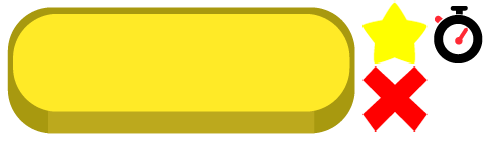
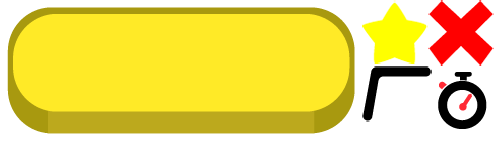
division with "casita" mathTournament

diff --git a/nonrefactored/mathTournament/mathClient/js/scenes/operations.js b/nonrefactored/mathTournament/mathClient/js/scenes/operations.js
@@ -16,7 +16,7 @@ var operations = function(){
 			"moves":"Movimientos extra",
 			"howTo":"¿Cómo jugar?",
 			"ready":"Listos",
-			"reviewingAnswers": "Rvisando Respuestas",
+			"reviewingAnswers": "Revisando Respuestas",
 			"youWin":"Ganaste!",
 			"giveUp":"No te rindas!"
 		}
@@ -75,7 +75,7 @@ var operations = function(){
 	var inputsEnabled
 	var roundCounter
 	var buttonList
-	var equationText
+	var equationGroup
 	var startTimer
 	var timeElapsed
 	var correctButton
@@ -295,24 +295,26 @@ var operations = function(){
 
 	function startRound() {
 		isReady = true;
+		equationGroup.division.alpha = 0
 
 		timeElapsed = 0
 		options = cliente ? cliente.currentOptions : [120, 200, 0]
 
 		clientData = (cliente)&&(cliente.currentData) ? cliente.currentData : {
-			operand1 : 0,
-			operand2 : 0,
-			opedator : "+",
-			correctAnswer : 0,
+			operand1 : 20,
+			operand2 : 2,
+			opedator : "/",
+			result:"?",
+			correctAnswer : 10,
 			type :"yei"
 		}
 
 		addButtons()
-		equationText.text = clientData.operand1 + clientData.opedator + clientData.operand2 + "=" + clientData.result
-		equationText.alpha = 0
-		equationText.scale.x = 0.4; equationText.scale.y = 0.4
-		game.add.tween(equationText.scale).to({x:1, y:1}, 500, Phaser.Easing.Back.Out, true)
-		game.add.tween(equationText).to({alpha: 1}, 500, Phaser.Easing.Cubic.Out, true)
+		generateEquation()
+		equationGroup.alpha = 0
+		equationGroup.scale.x = 0.4; equationGroup.scale.y = 0.4
+		game.add.tween(equationGroup.scale).to({x:1, y:1}, 500, Phaser.Easing.Back.Out, true)
+		game.add.tween(equationGroup).to({alpha: 1}, 500, Phaser.Easing.Cubic.Out, true)
 
 		game.add.tween(differenceTimeText).to({alpha:0}, 200, Phaser.Easing.Cubic.Out, true)
 		startTimer = true
@@ -330,8 +332,8 @@ var operations = function(){
 			game.add.tween(button.scale).to({x:0.4, y:0.4}, 300, Phaser.Easing.Cubic.Out, true)
 		}
 
-		game.add.tween(equationText).to({alpha:0}, 300, Phaser.Easing.Cubic.Out, true)
-		game.add.tween(equationText.scale).to({x:0.4, y:0.4}, 300, Phaser.Easing.Cubic.Out, true)
+		game.add.tween(equationGroup).to({alpha:0}, 300, Phaser.Easing.Cubic.Out, true)
+		game.add.tween(equationGroup.scale).to({x:0.4, y:0.4}, 300, Phaser.Easing.Cubic.Out, true)
 
 		game.add.tween(differenceTimeText).to({alpha:0}, 300, Phaser.Easing.Cubic.Out, true)
 		game.add.tween(differenceTimeText.scale).to({x:0.4, y:0.4}, 300, Phaser.Easing.Cubic.Out, true)
@@ -341,6 +343,16 @@ var operations = function(){
 			game.add.tween(timerText).to({alpha:1}, 200, Phaser.Easing.Cubic.In, true)
 			game.add.tween(differenceTimeText.scale).to({x:1.2, y:1.2}, 300, Phaser.Easing.Cubic.Out, true).yoyo(true)
 		})
+	}
+
+	function generateEquation(){
+		if(clientData.opedator === "/"){
+			equationGroup.division.alpha = 1
+			equationGroup.equationText.text = clientData.operand2 + "  " + clientData.operand1 + "=" + clientData.result
+		}else{
+			equationGroup.equationText.text = clientData.operand1 + clientData.opedator + clientData.operand2 + "=" + clientData.result
+		}
+
 	}
 	
 	function checkAnswer(event) {
@@ -361,15 +373,15 @@ var operations = function(){
 
 		}
 		console.log(missingOperand)
-		equationText.text = clientData.operand1 + clientData.opedator + clientData.operand2 + "=" + clientData.result
-		game.add.tween(equationText.scale).to({x:1.2, y:1.2}, 200, Phaser.Easing.Cubic.Out, true).yoyo(true)
+		generateEquation()
+		game.add.tween(equationGroup.scale).to({x:1.2, y:1.2}, 200, Phaser.Easing.Cubic.Out, true).yoyo(true)
 
 		if(correctButton.value !== buttonSelected.value){
-			// tweenTint(buttonSelected.img, 0xffffff, 0x00f414, 400)
-			tweenTint(buttonSelected.img, 0xffffff, 0xbc0a00, 200)
+			// tweenTint(buttonSelected.img, 0xffffff, 0xbc0a00, 200)
+			buttonSelected.img.tint = 0xbc0a00
 		}
-		// tweenTint(correctButton.img, 0xffffff, 0x64FF57, 400)
-		tweenTint(correctButton.img, 0xffffff, 0x00f414, 200)
+		correctButton.img.tint = 0x00f414
+		// tweenTint(correctButton.img, 0xffffff, 0x00f414, 200)
 
 		console.log(event.timeDifference)
 		if(event.timeDifference){
@@ -511,6 +523,7 @@ var operations = function(){
 			}else if(!isReady){
 				if(timeElapsed > 500){
 					timeElapsed = 0
+					var equationText = equationGroup.equationText
 					switch (equationText.text){
 						case readyString:
 							equationText.text = readyString+"."
@@ -548,11 +561,23 @@ var operations = function(){
 			playerInfo.anchor.setTo(0.5, 0.5)
 			sceneGroup.add(playerInfo)
 
+			equationGroup = game.add.group()
+			equationGroup.x = game.world.centerX
+			equationGroup.y = 150
+			sceneGroup.add(equationGroup)
+
 			readyString = localization.getString(localizationData, "ready")
-			var fontStyle2 = {font: "72px VAGRounded", fontWeight: "bold", fill: "#ffffff", align: "center"}
-			equationText = game.add.text(game.world.centerX,150,readyString, fontStyle2)
+			var fontStyle2 = {font: "72px VAGRounded", fontWeight: "bold", fill: "#ffffff", align: "center", wordWrap: true, wordWrapWidth: 300}
+			var equationText = game.add.text(0,0,readyString, fontStyle2)
 			equationText.anchor.setTo(0.5, 0.5)
-			sceneGroup.add(equationText)
+			equationGroup.add(equationText)
+			equationGroup.equationText = equationText
+
+			var division = equationGroup.create(-20,-15, "atlas.operations", "sign")
+			division.anchor.setTo(0.5, 0.5)
+			division.scale.setTo(1.5, 1.5)
+			division.alpha = 0
+			equationGroup.division = division
 
 			var fontStyle3 = {font: "52px Arial", fontWeight: "bold", fill: "#ffffff", align: "center"}
 			timerText = game.add.text(game.world.centerX - 30,250,"0:00", fontStyle3)
@@ -608,7 +633,7 @@ var operations = function(){
 
 			var stringWait = localization.getString(localizationData, "reviewingAnswers")
 			// var fontStyle2 = {font: "72px VAGRounded", fontWeight: "bold", fill: "#ffffff", align: "center"}
-			var waitText = game.add.text(0, -100, stringWait, fontStyle2)
+			var waitText = game.add.text(0, -140, stringWait, fontStyle2)
 			waitText.anchor.setTo(0.5, 0.5)
 			waitingGroup.add(waitText)
 			waitingGroup.alpha = 0

diff --git a/nonrefactored/mathTournament/mathServer/js/scenes/battle.js b/nonrefactored/mathTournament/mathServer/js/scenes/battle.js
@@ -125,6 +125,7 @@ var battle = function(){
 	var hudGroup
 	var frontGroup
 	var answersGroup
+	var equationGroup
 
     function loadSounds(){
         sound.decode(assets.sounds)
@@ -368,8 +369,18 @@ var battle = function(){
     }
 
     function hideQuestion(){
-        game.add.tween(equation).to({alpha:0}, 800, Phaser.Easing.Cubic.Out, true)
+        game.add.tween(equationGroup).to({alpha:0}, 800, Phaser.Easing.Cubic.Out, true)
     }
+
+	function generateEquation(data){
+		if(data.opedator === "/"){
+			equationGroup.division.alpha = 1
+			equationGroup.equation.text = data.operand2 + "  " + data.operand1 + "=" + data.result
+		}else{
+			equationGroup.equation.text = data.operand1 + data.opedator + data.operand2 + "=" + data.result
+		}
+
+	}
 
     function checkAnswer(event) {
 		// game.add.tween(answersGroup).to({y:game.world.height}, 500, Phaser.Easing.Cubic.Out, true)
@@ -387,9 +398,9 @@ var battle = function(){
 				break
 
 		}
-		equation.text = data.operand1 + data.opedator + data.operand2 + "=" + data.result
+		generateEquation(data)
 
-    	game.add.tween(equation.scale).to({x:1.2, y:1.2}, 200, Phaser.Easing.Cubic.Out, true).yoyo(true)
+    	game.add.tween(equationGroup.scale).to({x:1.2, y:1.2}, 200, Phaser.Easing.Cubic.Out, true).yoyo(true)
 		var playerWin = null, playerLose = null
     	if(event.numPlayer === 1){
 			playerWin = player1
@@ -755,7 +766,7 @@ var battle = function(){
 			server.generateQuestion()
 		}else{
 			game.time.events.add(1000, function () {
-				generateQuestion({operand1:100, opedator:"+", operand2:100, result:200})
+				generateQuestion({operand1:100, opedator:"/", operand2:20, result:10})
 			})
 		}
 		// if(server)
@@ -767,13 +778,13 @@ var battle = function(){
     function numbersEffect() {
         sound.play("cut")
 
-        equation.alpha = 0
+		equationGroup.alpha = 0
 
-		equation.scale.x = 0.2
-		equation.scale.y = 0.2
+		equationGroup.scale.x = 0.2
+		equationGroup.scale.y = 0.2
 
-        game.add.tween(equation.scale).to({x: 1,y:1}, 800, Phaser.Easing.Bounce.Out, true)
-        game.add.tween(equation).to({alpha:1}, 800, Phaser.Easing.Cubic.Out, true)
+        game.add.tween(equationGroup.scale).to({x: 1,y:1}, 800, Phaser.Easing.Bounce.Out, true)
+        game.add.tween(equationGroup).to({alpha:1}, 800, Phaser.Easing.Cubic.Out, true)
     }
 
     function enableCircle(option) {
@@ -783,7 +794,7 @@ var battle = function(){
     function generateQuestion(data) {
         // var round = ROUNDS[roundCounter] ? ROUNDS[roundCounter] : ROUNDS[ROUNDS.length - 1]
 		// console.log(data)
-        equation.text = data.operand1 + data.opedator + data.operand2 + "=" + data.result
+		generateEquation(data)
         numbersEffect()
 
     }
@@ -899,10 +910,20 @@ var battle = function(){
 		container.anchor.setTo(0.5, 0.5)
 		container.scale.setTo(0.9, 0.6)
 
-        equation = new Phaser.Text(game, 0, -5, "0+0=?", fontStyle)
-		equation.alpha = 0
+        equationGroup = game.add.group()
+		questionGroup.add(equationGroup)
+		equationGroup.alpha = 0
+
+		var equation = new Phaser.Text(game, 0, 0, "0+0=?", fontStyle)
 		equation.anchor.setTo(0.5,0.5)
-		questionGroup.add(equation)
+		equationGroup.add(equation)
+		equationGroup.equation = equation
+
+		var division = equationGroup.create(-20,-15, "atlas.battle", "sign")
+		division.anchor.setTo(0.5, 0.5)
+		division.scale.setTo(1.2, 1.2)
+		division.alpha = 0
+		equationGroup.division = division
 
 		answersGroup = game.add.group()
 		answersGroup.x = game.world.centerX
